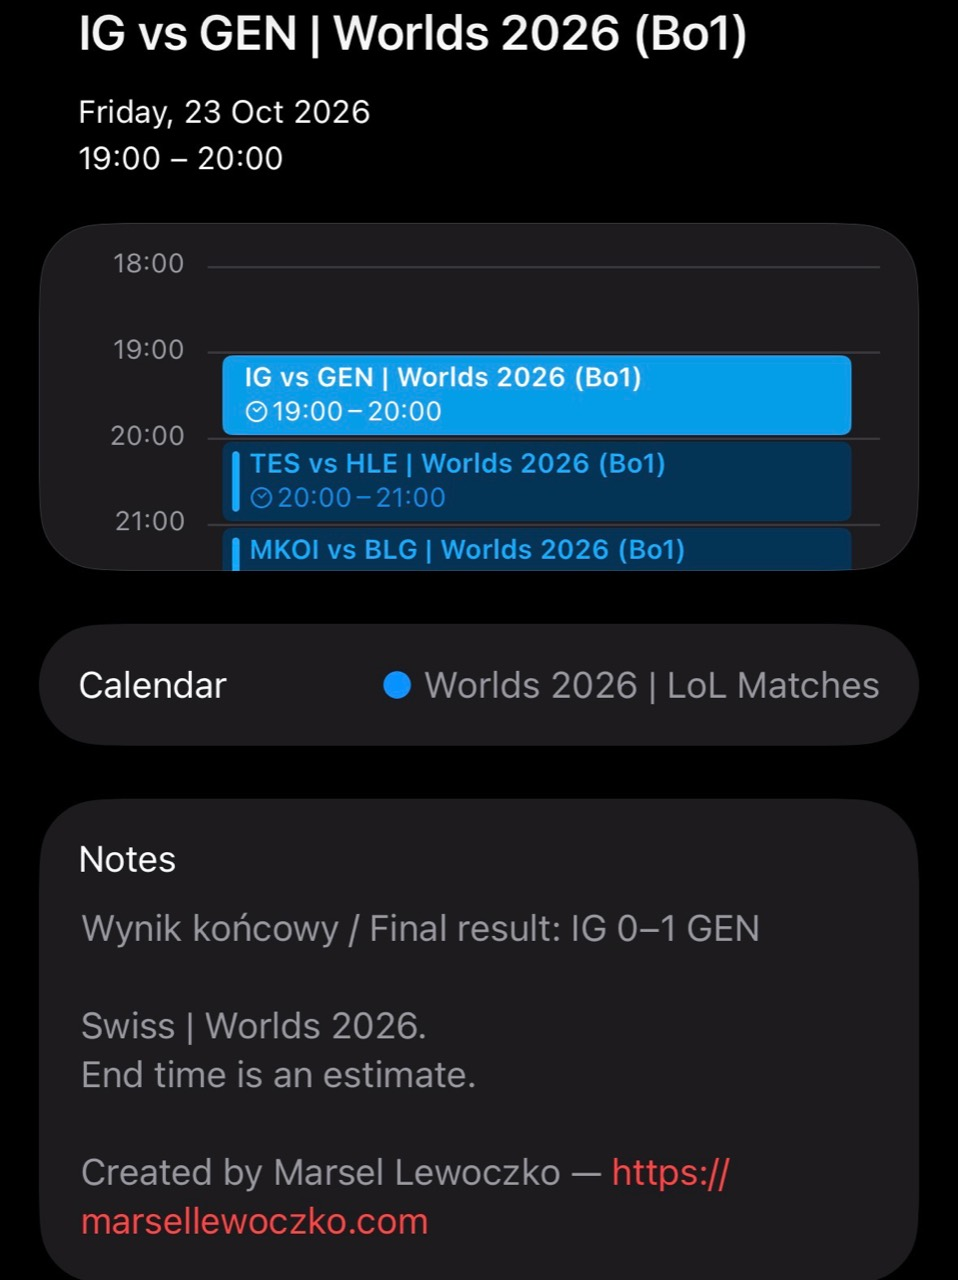
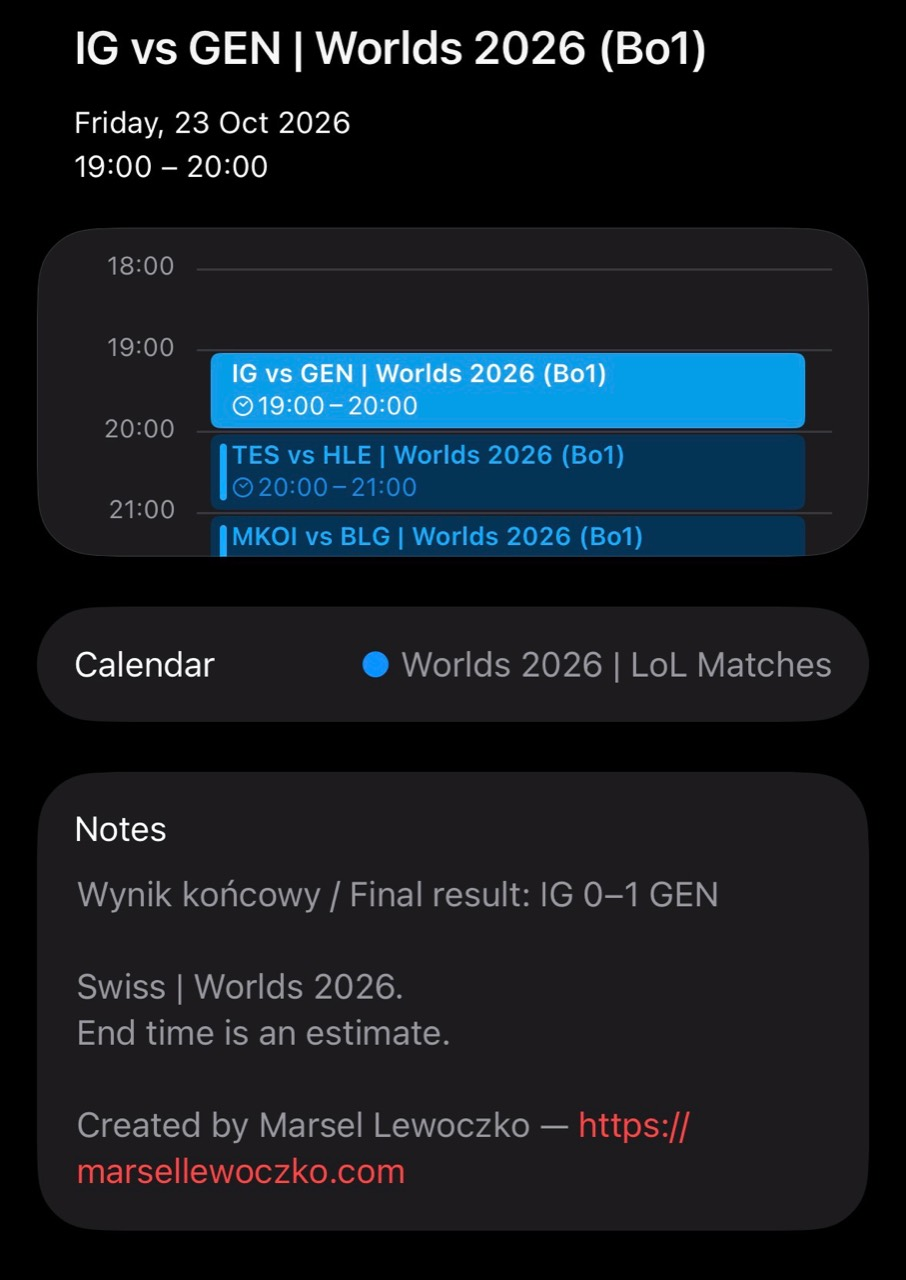
Replace calendar screenshot with updated image

diff --git a/template.html b/template.html
@@ -20,7 +20,7 @@
 <div class="event-example">
 <p class="eyebrow" id="exampleLabel">Example from a calendar app</p>
 <details><summary id="exampleOpen">Show calendar screenshot (contains a match result)</summary>
-<img src="assets/calendar-example.jpg" width="958" height="1280" loading="lazy" alt="Calendar event screenshot: match title and time above, result in Notes, author credit at the bottom." id="exampleImage" style="display:block;width:100%;max-width:540px;height:auto;margin:16px auto 0;border-radius:12px">
+<img src="assets/calendar-example.jpg?v=2" width="906" height="1280" loading="lazy" alt="Calendar event screenshot: match title and time above, result in Notes, author credit at the bottom." id="exampleImage" style="display:block;width:100%;max-width:540px;height:auto;margin:16px auto 0;border-radius:12px">
 </details>
 <p class="small" id="exampleDetails">The title has no score. Open the event to find the result in Notes and the author credit at the bottom. Times and appearance depend on your calendar app.</p>
 </div>

diff --git a/docs/BUILD_LOG.md b/docs/BUILD_LOG.md
@@ -100,3 +100,7 @@
 - All 28 tests passed; a live build copied the image. Chromium smoke and screenshot checks passed in PL/EN at mobile/desktop widths, including loaded image dimensions, collapsed initial state and no overflow. Publication pending.
 
 - Publication run 40120568995 succeeded. Public HTML references the screenshot, and the public JPEG returns HTTP 200 (130089 bytes).
+
+## 2026-10-24 — Replacement screenshot
+
+- Replaced the calendar screenshot with the newly supplied original (906×1280). Updated declared dimensions and image URL version so browsers fetch the replacement. Existing spoiler disclosure and captions are unchanged. Publication pending.
